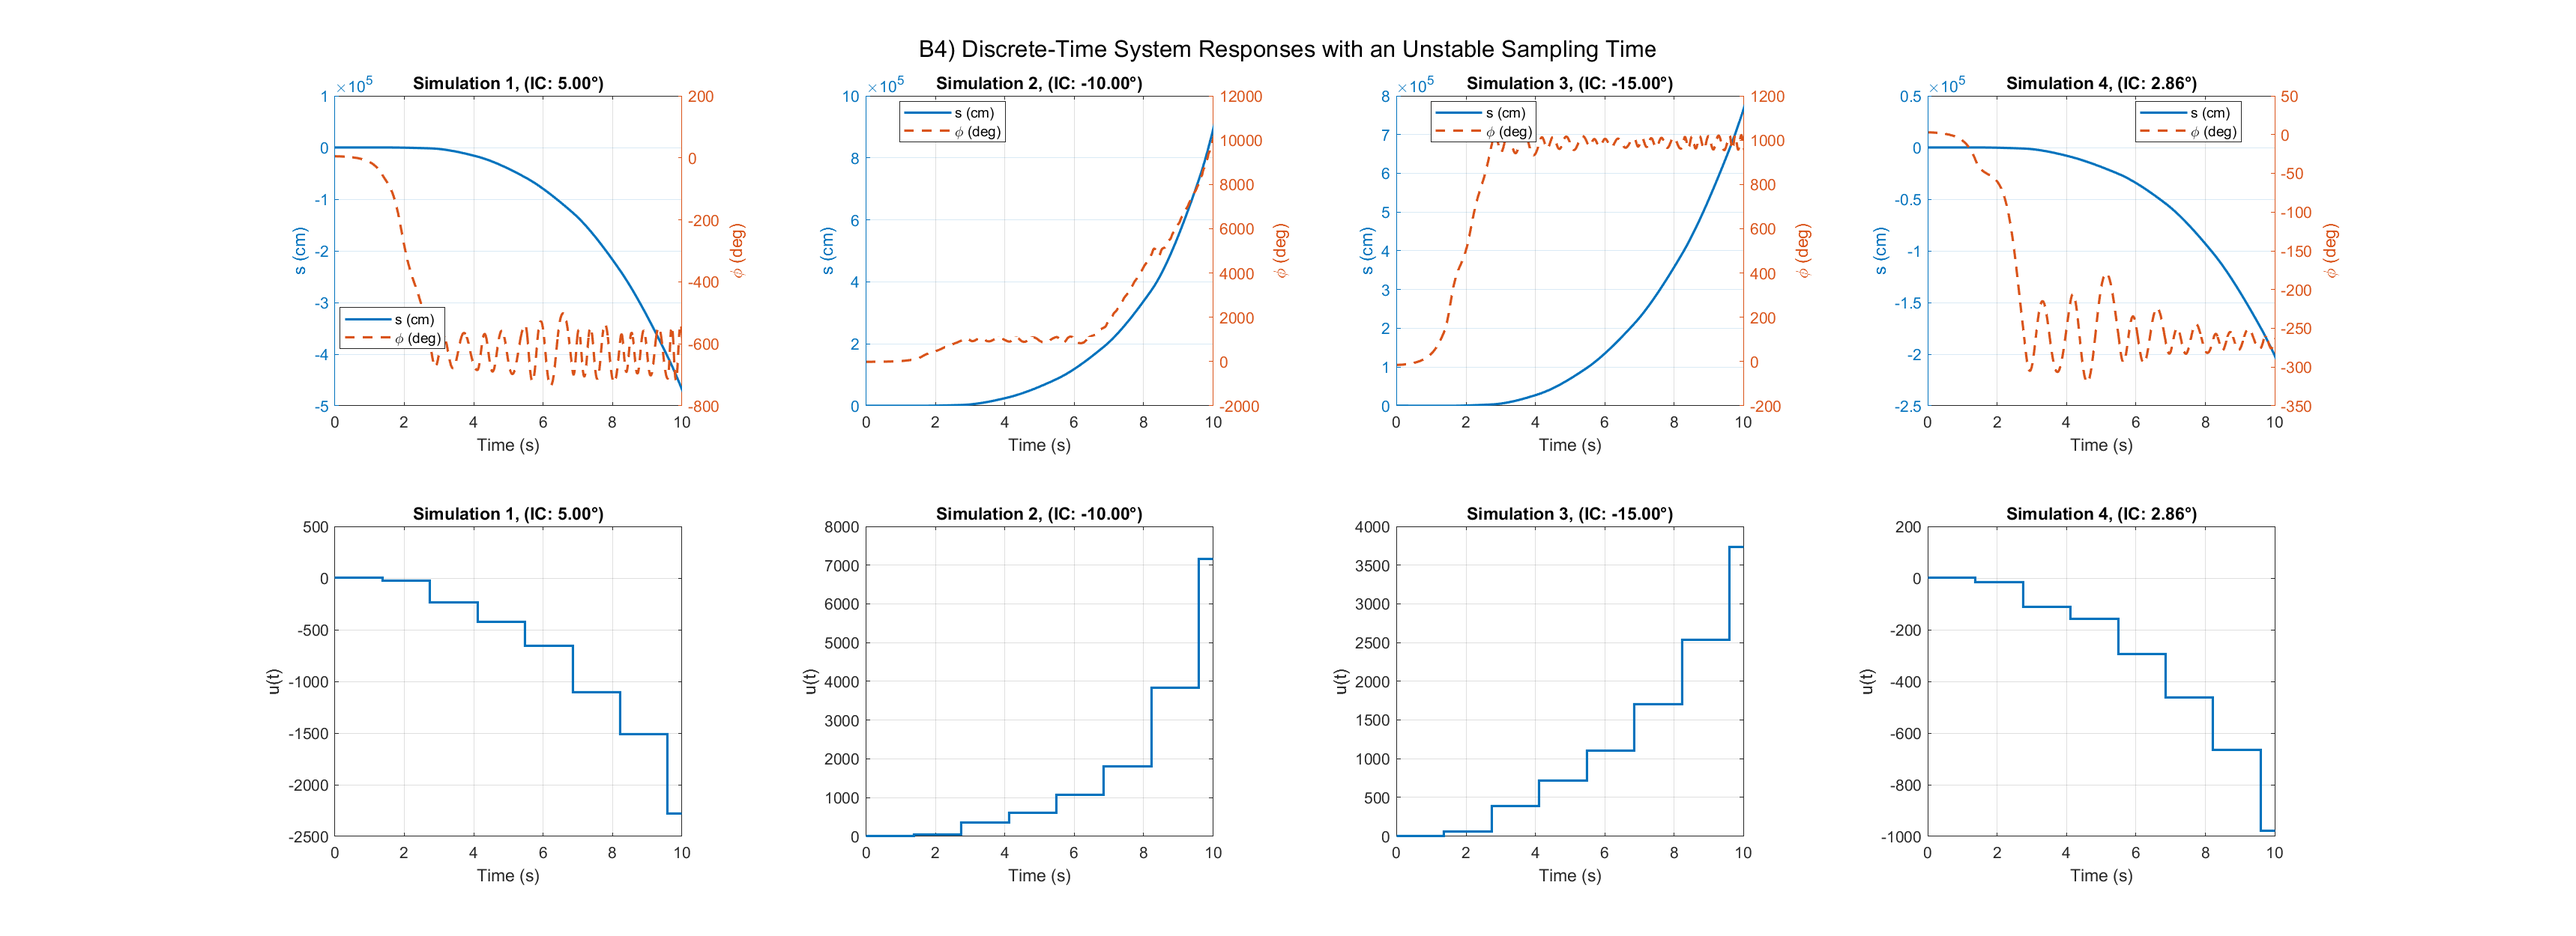
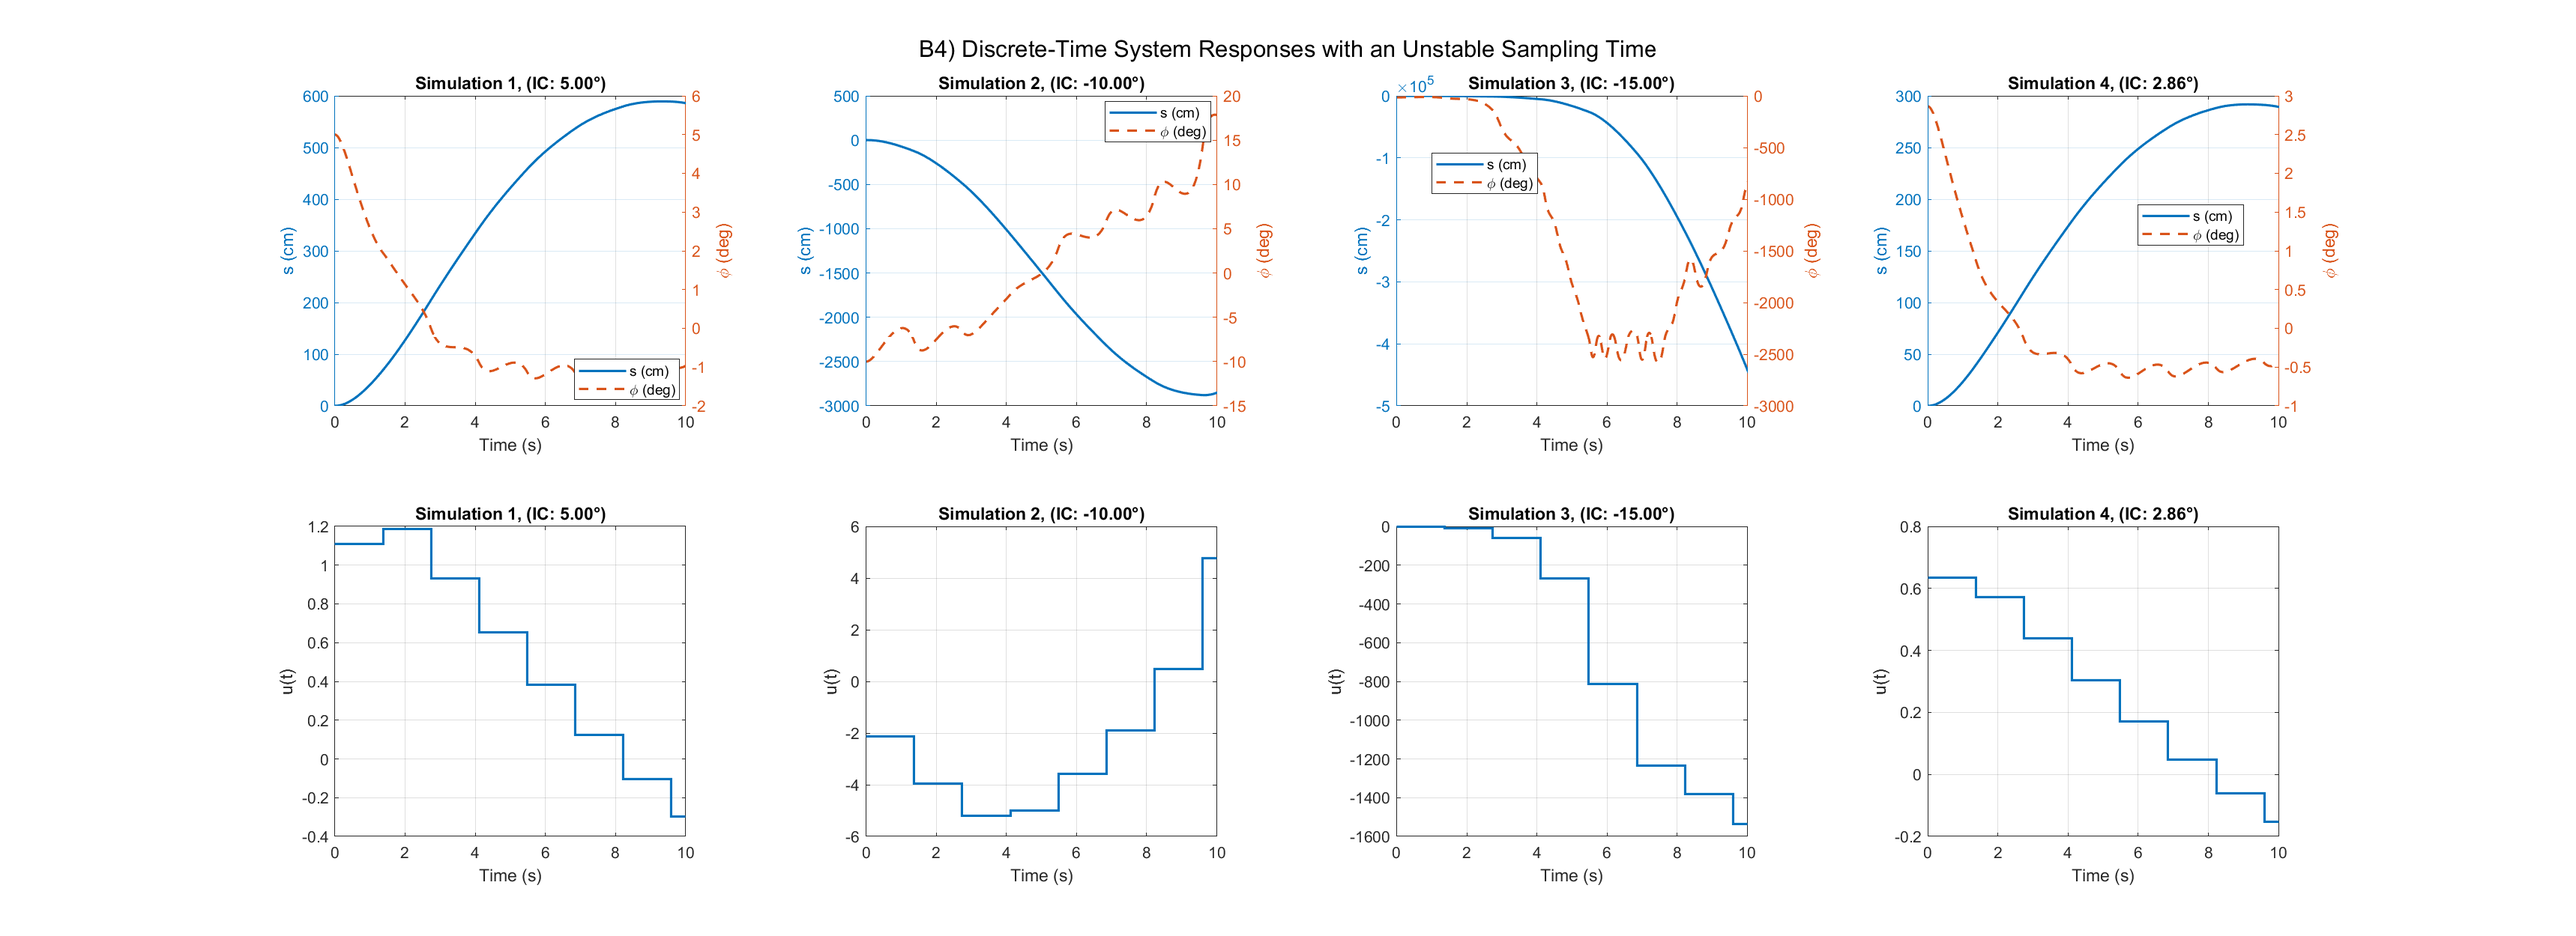
b4 snd b5

diff --git a/model/main.m b/model/main.m
@@ -8,8 +8,8 @@ load_variables;
 
 plot_B2  = false;
 plot_B3  = true;
-plot_B4  = false;
-plot_B5  = false;
+plot_B4  = true;
+plot_B5  = true;
 plot_B7  = false;
 plot_B8  = false;
 plot_B9  = false;
@@ -630,10 +630,9 @@ end
 
 
 
-%% B3
-%  Display plots of y(t) for the nonlinear system (1), from the same initial states x(0) and using the controller designed in point B1. Comment on these plots.
+%% B5
 
-if plot_B3
+if plot_B5
 
     Ts_vals = linspace(0.1, 2, 6);  % 6 sampling times from 0.1 to 2
     IC_index = 2;                   % Use only initial condition 3
@@ -693,8 +692,8 @@ if plot_B3
     end
 
 
-    sgtitle('B3) Nonlinear System Responses: Angular and Linear Velocities')
-    saveas(gcf, '../figures/b3_v.png');
+    sgtitle('B5) Nonlinear System Responses to a Digital Controller with Different Sampling Frequenciess')
+    saveas(gcf, '../figures/b5.png');
 
 end
 

diff --git a/equations/Ad.tex b/equations/Ad.tex
@@ -1,6 +1,6 @@
 \begin{bmatrix}
-1.0000 & 0.2398 & 0.0000 & 0.0000 \\
-0.0000 & 0.7602 & 0.0000 & 0.0000 \\
-0.0000 & 0.0440 & 1.4707 & 0.3159 \\
-0.0000 & 0.3312 & 3.6807 & 1.4707
+1.0000 & 0.8647 & 0.0000 & 0.0000 \\
+0.0000 & 0.1353 & 0.0000 & 0.0000 \\
+0.0000 & 36.3276 & 460.9425 & 135.0463 \\
+0.0000 & 124.0599 & 1573.2896 & 460.9425
 \end{bmatrix}

diff --git a/equations/Bd.tex b/equations/Bd.tex
@@ -1,6 +1,6 @@
 \begin{bmatrix}
-0.0344 \\
-0.2398 \\
--0.0440 \\
--0.3312
+1.1353 \\
+0.8647 \\
+-36.3276 \\
+-124.0599
 \end{bmatrix}

diff --git a/equations/Kd.tex b/equations/Kd.tex
@@ -1,3 +1,3 @@
 \begin{bmatrix}
--0.0706 & -1.3057 & -15.4914 & -4.4158
+-0.0003 & -1.0020 & -12.7048 & -3.7222
 \end{bmatrix}

diff --git a/equations/poles_d.tex b/equations/poles_d.tex
@@ -1,3 +1,3 @@
 \begin{bmatrix}
-0.8719 & 0.7602 & 0.6628 & 0.5779
+0.3679 & 0.1353 & 0.0498 & 0.0183
 \end{bmatrix}
